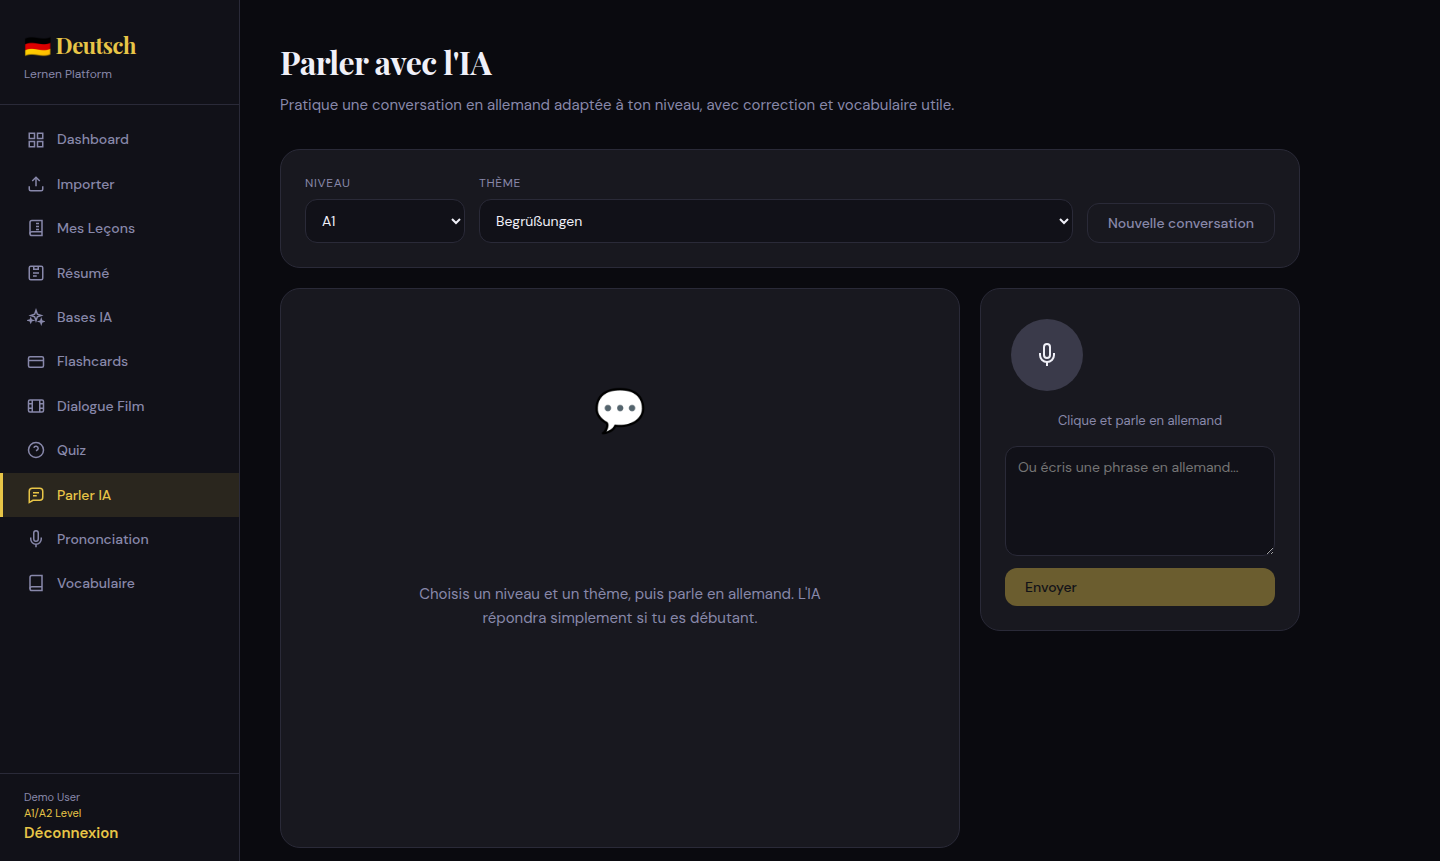
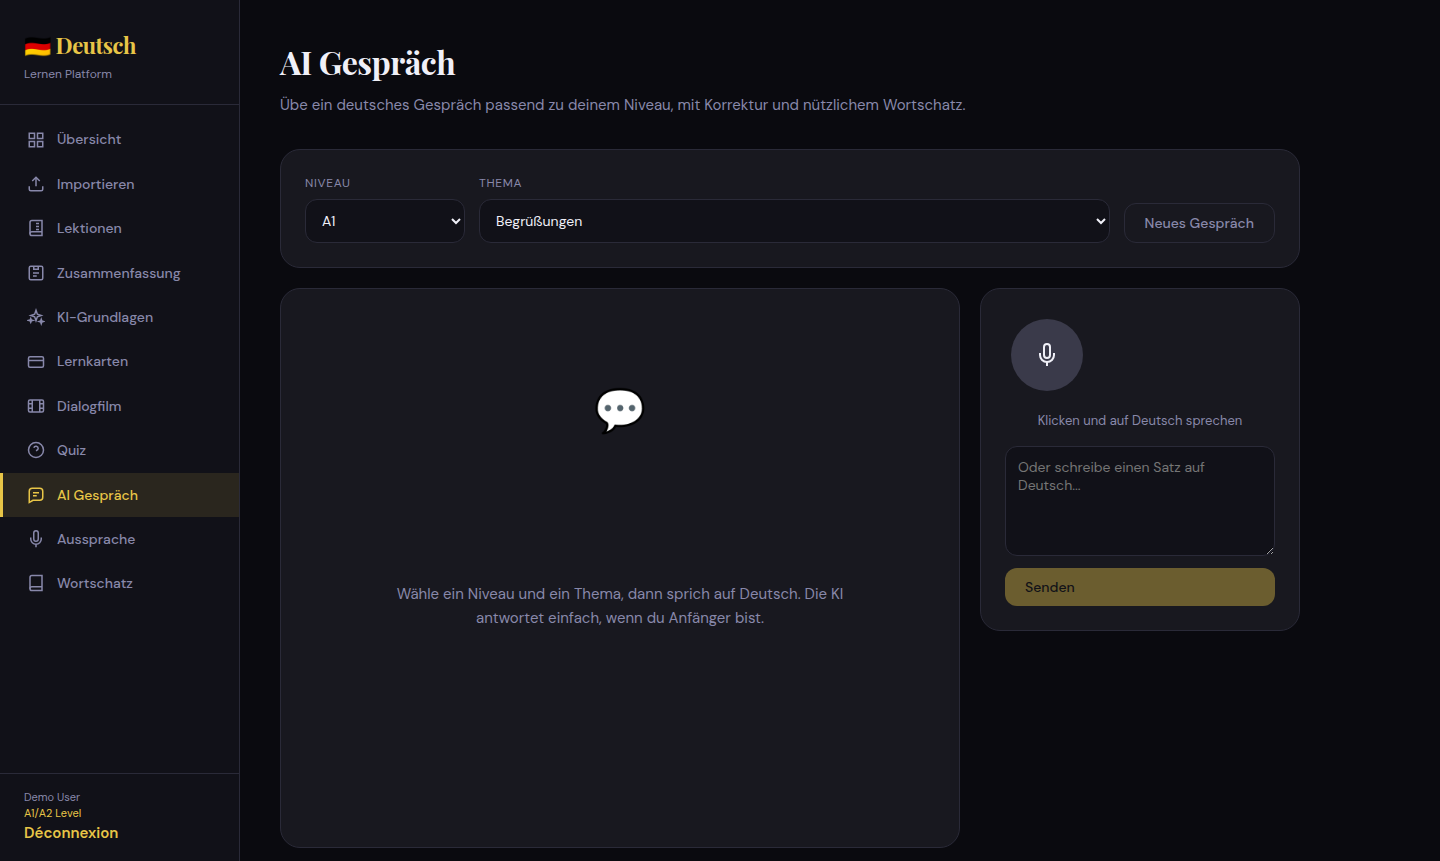
Use German feature labels

diff --git a/frontend/src/pages/Conversation.jsx b/frontend/src/pages/Conversation.jsx
@@ -111,8 +111,8 @@ export default function Conversation() {
   return (
     <div className="page conversation-page">
       <div className="page-header">
-        <h2>Parler avec l'IA</h2>
-        <p>Pratique une conversation en allemand adaptée à ton niveau, avec correction et vocabulaire utile.</p>
+        <h2>AI Gespräch</h2>
+        <p>Übe ein deutsches Gespräch passend zu deinem Niveau, mit Korrektur und nützlichem Wortschatz.</p>
       </div>
 
       <div className="conversation-toolbar card">
@@ -124,13 +124,13 @@ export default function Conversation() {
         </label>
 
         <label>
-          <span>Thème</span>
+          <span>Thema</span>
           <select value={topic} onChange={e => setTopic(e.target.value)}>
             {topics.map(item => <option key={item} value={item}>{item}</option>)}
           </select>
         </label>
 
-        <button className="btn btn-ghost" type="button" onClick={resetConversation}>Nouvelle conversation</button>
+        <button className="btn btn-ghost" type="button" onClick={resetConversation}>Neues Gespräch</button>
       </div>
 
       <div className="conversation-shell">
@@ -138,7 +138,7 @@ export default function Conversation() {
           {messages.length === 0 && (
             <div className="conversation-empty">
               <div>💬</div>
-              <p>Choisis un niveau et un thème, puis parle en allemand. L'IA répondra simplement si tu es débutant.</p>
+              <p>Wähle ein Niveau und ein Thema, dann sprich auf Deutsch. Die KI antwortet einfach, wenn du Anfänger bist.</p>
             </div>
           )}
 
@@ -203,7 +203,7 @@ export default function Conversation() {
               )}
             </button>
           </div>
-          <p>{isListening ? 'Ich höre zu...' : 'Clique et parle en allemand'}</p>
+          <p>{isListening ? 'Ich höre zu...' : 'Klicken und auf Deutsch sprechen'}</p>
           {transcript && <div className="transcript-box">"{transcript}"</div>}
           {micError && <div className="error-message">{micError}</div>}
           {apiError && <div className="error-message">{apiError}</div>}
@@ -212,11 +212,11 @@ export default function Conversation() {
             <textarea
               value={draft}
               onChange={e => setDraft(e.target.value)}
-              placeholder="Ou écris une phrase en allemand..."
+              placeholder="Oder schreibe einen Satz auf Deutsch..."
               rows={4}
             />
             <button className="btn btn-primary" type="submit" disabled={loading || !draft.trim()}>
-              Envoyer
+              Senden
             </button>
           </form>
         </aside>

diff --git a/frontend/src/App.jsx b/frontend/src/App.jsx
@@ -15,17 +15,17 @@ import { useAuth } from './context/AuthContext';
 import './index.css';
 
 const NAV = [
-  { to:'/',             label:'Dashboard',    icon:'dashboard' },
-  { to:'/upload',       label:'Importer',     icon:'upload'    },
-  { to:'/lessons',      label:'Mes Leçons',   icon:'lessons'   },
-  { to:'/resume',       label:'Résumé',       icon:'summary'   },
-  { to:'/bases',        label:'Bases IA',     icon:'spark'     },
-  { to:'/flashcards',   label:'Flashcards',   icon:'cards'     },
-  { to:'/dialogue-film', label:'Dialogue Film',icon:'film'      },
+  { to:'/',             label:'Übersicht',    icon:'dashboard' },
+  { to:'/upload',       label:'Importieren',  icon:'upload'    },
+  { to:'/lessons',      label:'Lektionen',    icon:'lessons'   },
+  { to:'/resume',       label:'Zusammenfassung', icon:'summary' },
+  { to:'/bases',        label:'KI-Grundlagen', icon:'spark'    },
+  { to:'/flashcards',   label:'Lernkarten',   icon:'cards'     },
+  { to:'/dialogue-film', label:'Dialogfilm',   icon:'film'      },
   { to:'/quiz',         label:'Quiz',         icon:'quiz'      },
-  { to:'/conversation',  label:'Parler IA',   icon:'chat'      },
-  { to:'/pronunciation',label:'Prononciation',icon:'mic'       },
-  { to:'/vocabulary',   label:'Vocabulaire',  icon:'book'      },
+  { to:'/conversation',  label:'AI Gespräch', icon:'chat'      },
+  { to:'/pronunciation',label:'Aussprache',   icon:'mic'       },
+  { to:'/vocabulary',   label:'Wortschatz',   icon:'book'      },
 ];
 
 const ICONS = {

diff --git a/README.md b/README.md
@@ -10,18 +10,18 @@ The project is designed as a personal learning platform for A1/A2 German learner
 
 ## Features
 
-- AI-assisted document analysis for PDFs and images.
-- Vocabulary extraction with articles, translations, topics, and examples.
-- Flashcards with difficulty ratings for review practice.
-- Quiz generation, including German-to-French, French-to-German, articles, and listening exercises.
-- Pronunciation practice with speech recognition and AI feedback.
-- High-quality German text-to-speech with browser fallback.
-- AI-generated lesson summaries and German basics explanations.
-- Dialogue film mode for scene-based language practice.
-- AI conversation practice with level-based German replies, corrections, translations, and useful vocabulary.
-- Authenticated user accounts with JWT and bcrypt password hashing.
-- Progress dashboard with recent words, review items, statistics, and weak areas.
-- Production-oriented backend middleware: rate limiting, Helmet, CORS controls, logging, and Docker support.
+- KI-gestützte Dokumentanalyse für PDFs und Bilder.
+- Wortschatz-Extraktion mit Artikeln, Übersetzungen, Themen und Beispielen.
+- Lernkarten mit Schwierigkeitsbewertung für Wiederholungen.
+- Quiz-Generierung für Deutsch-Französisch, Französisch-Deutsch, Artikel und Hörübungen.
+- Aussprachetraining mit Spracherkennung und KI-Feedback.
+- Hochwertige deutsche Text-to-Speech-Ausgabe mit Browser-Fallback.
+- KI-generierte Zusammenfassungen und deutsche Grundlagen.
+- Dialogfilm-Modus für szenenbasiertes Sprachtraining.
+- AI Gespräch mit niveauangepassten deutschen Antworten, Korrekturen, Übersetzungen und nützlichem Wortschatz.
+- Authentifizierte Benutzerkonten mit JWT und bcrypt-Passwort-Hashing.
+- Lernübersicht mit neuen Wörtern, Wiederholungen, Statistiken und schwierigen Bereichen.
+- Produktionsorientiertes Backend: Rate Limiting, Helmet, CORS, Logging und Docker-Support.
 
 ## Demo
 
@@ -77,9 +77,9 @@ Or run each service manually from the `backend` and `frontend` folders as descri
 
 ![DeutschScene AI quiz page](docs/screenshots/quiz.png)
 
-### AI Conversation Practice
+### AI Gespräch
 
-![DeutschScene AI conversation practice page](docs/screenshots/conversation.png)
+![DeutschScene AI Gespräch page](docs/screenshots/conversation.png)
 
 ### Pronunciation
 
